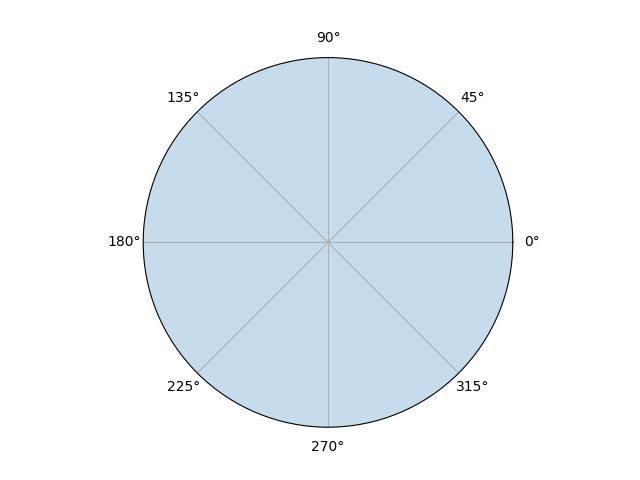
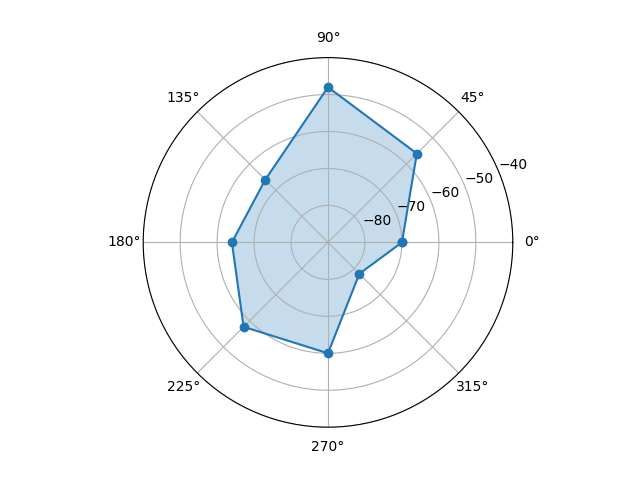
レーダーチャート完成

Changed region(s): [[0.2188, 0.0938, 0.8125, 0.9062]]

diff --git a/raspi/rssi/radar_chart.py b/raspi/rssi/radar_chart.py
@@ -20,10 +20,9 @@ def plot_polar(labels, values, imgname):
 labels = ['0°', '45°', '90°', '135°', '180°', '225°', '270°', '315°']
 #values = [-71, -61, -78, -79, -81, -78, -77, -79]
 with open('./ble_ave.csv') as f:
-    reader = csv.reader(f)
+    reader = np.loadtxt(f, delimiter=',', dtype='float')
+    values = []
     for row in reader:
-        values = float(row)
-        print(values)
+        values.append(row)
 
-print(type(values))
 plot_polar(labels, values, "radar.png")
